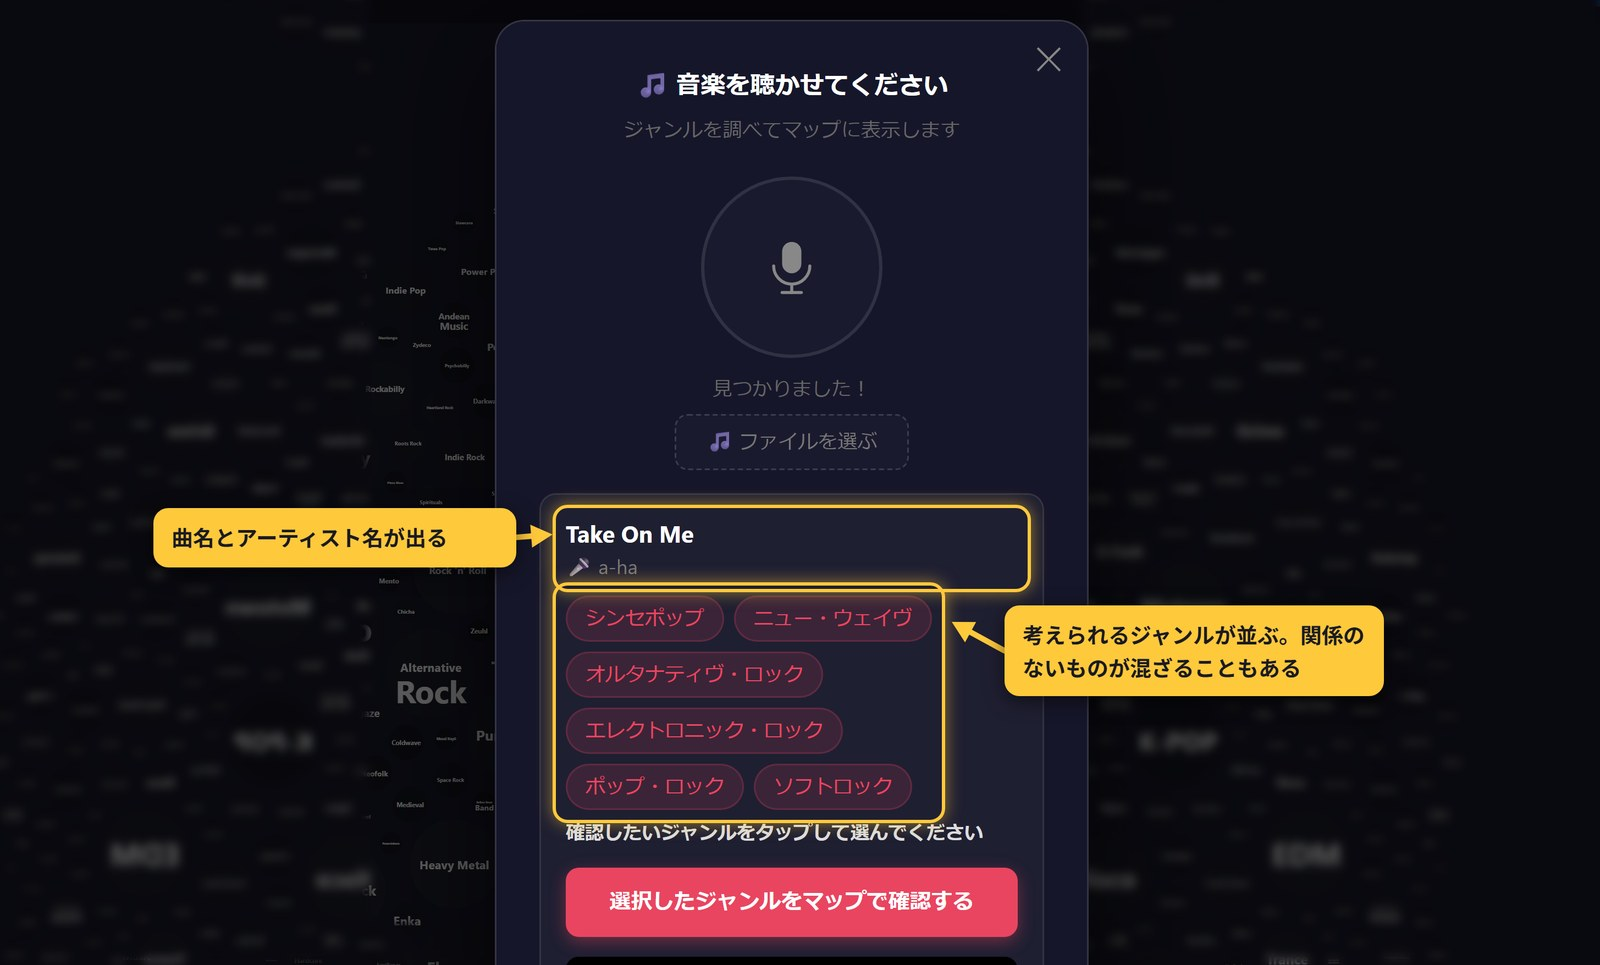
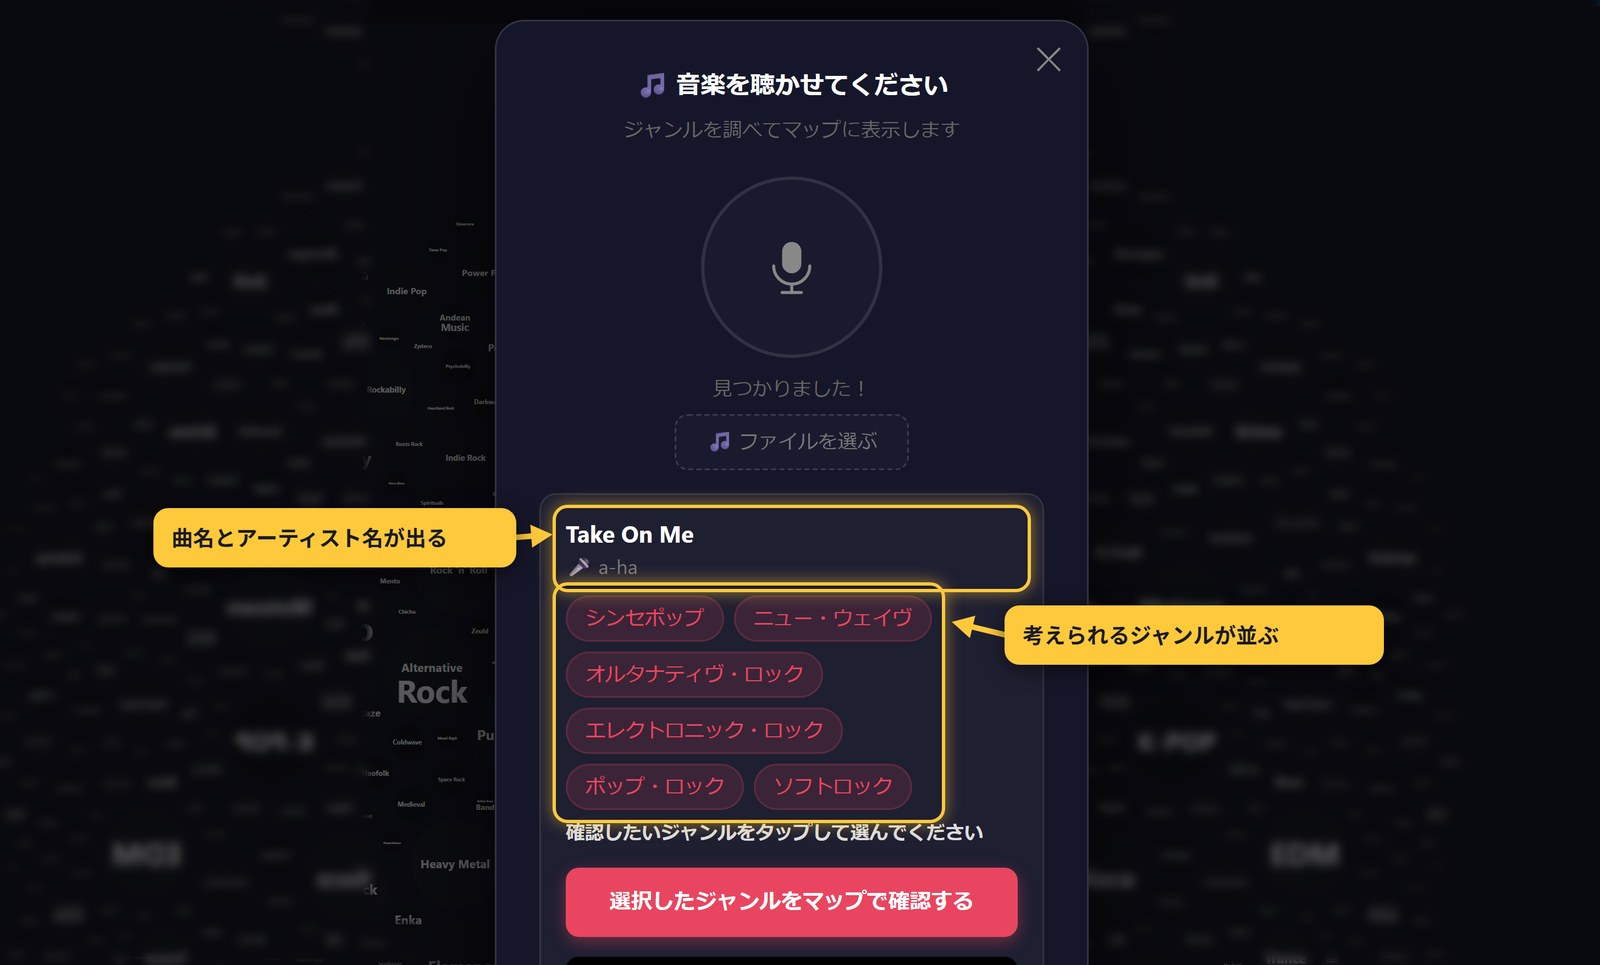
「関係のないものが混ざる」の重複を消し、ジャンル数を573にする
・図の説明と手順の文で「関係のないものが混ざることもある」が
  2回続けて出ていたので、図の側（説明文と、図の中の札の両方）から
  外した。手順3のところに1回だけ残る。図は撮り直した。
・Barbershop が追加されて573件になったので、ガイドの数字を合わせた。
  自動更新の仕組みに漏れがあり（v2.23）、書き換えても commit されて
  いなかった。仕組み側は v2.24 で直したので、今回だけ手で直す。

diff --git a/docs/manual.html b/docs/manual.html
@@ -5,7 +5,7 @@
 <meta name="viewport" content="width=device-width, initial-scale=1.0">
 <title>使い方ガイド — 音楽ジャンルルーツ辞典</title>
 <!-- 【ジャンル数の書き方について】
-     本文に出てくるジャンルの数は <span class="gr-genre-count">572</span> の形で書くこと。
+     本文に出てくるジャンルの数は <span class="gr-genre-count">573</span> の形で書くこと。
      ジャンルが追加されると、genre_adder.py がこの印の中身だけを自動で書き換える。
      手で直す必要はないし、印を外して数字を直接書いてもいけない
      （書くと、増えたときに古い数字が残ってしまう）。
@@ -327,7 +327,7 @@
     それはとても自然なことですし、お気に入りの場所があるのは素敵なことです。
     ただ、そのすぐとなりに、<strong>まだ出会っていない「好きになるはずの音楽」</strong>が
     そっと待っているかもしれません。</p>
-    <p class="lede">この事典は、<span class="gr-genre-count">572</span>のジャンルを<strong>つながりの地図</strong>にしたものです。
+    <p class="lede">この事典は、<span class="gr-genre-count">573</span>のジャンルを<strong>つながりの地図</strong>にしたものです。
     好きなジャンルをひとつ選ぶと、そこから枝が伸びていきます。
     <strong>そのジャンルを生んだ親</strong>、<strong>そこから生まれた子</strong>、
     <strong>影響を与え合った仲間</strong>。たどっているうちに、
@@ -381,7 +381,7 @@
     </figure>
 
     <p>画面のほとんどが<b>地図</b>です。散らばっている丸ひとつひとつが、ひとつの音楽ジャンル。
-      <b><span class="gr-genre-count">572</span>個</b>の丸が並んでいます。</p>
+      <b><span class="gr-genre-count">573</span>個</b>の丸が並んでいます。</p>
 
     <h3>上の帯にあるもの</h3>
     <ul>
@@ -683,7 +683,7 @@
     </div>
     <figure>
       <img src="img/spmic2_result.jpg" alt="曲が特定され、Take On Me / a-ha とジャンルのタグが並んでいる。">
-      <figcaption>曲名とアーティスト名、考えられるジャンルが並びます。関係のないものが混ざることもあります。</figcaption>
+      <figcaption>曲名とアーティスト名、そして考えられるジャンルが並びます。</figcaption>
     </figure>
 
     <div class="step">
@@ -845,7 +845,7 @@
      </figure>
 
     <p>マップに散らばっている丸（ノード）ひとつひとつが、ひとつの音楽ジャンルです。
-     <span class="gr-genre-count">572</span>個の丸が、全部そこに並んでいます。</p>
+     <span class="gr-genre-count">573</span>個の丸が、全部そこに並んでいます。</p>
      <p>ジャンルどうしの<strong>つながりは、全体の地図では線として出ていません</strong>。
      1,600本以上あるので、全部いっぺんに出すと真っ白になってしまうからです。
      <strong>丸をひとつクリックすると</strong>、そのジャンルにつながる相手だけが残り、
@@ -1094,7 +1094,7 @@
     </div>
     <figure>
       <img src="img/pcmic2_result.jpg" alt="曲が特定され、Take On Me / a-ha とジャンルのタグが並んでいる。">
-      <figcaption>曲名とアーティスト名、考えられるジャンルが並ぶ。関係のないものが混ざることもある。</figcaption>
+      <figcaption>曲名とアーティスト名、そして考えられるジャンルが並ぶ。</figcaption>
     </figure>
 
     <div class="step">
